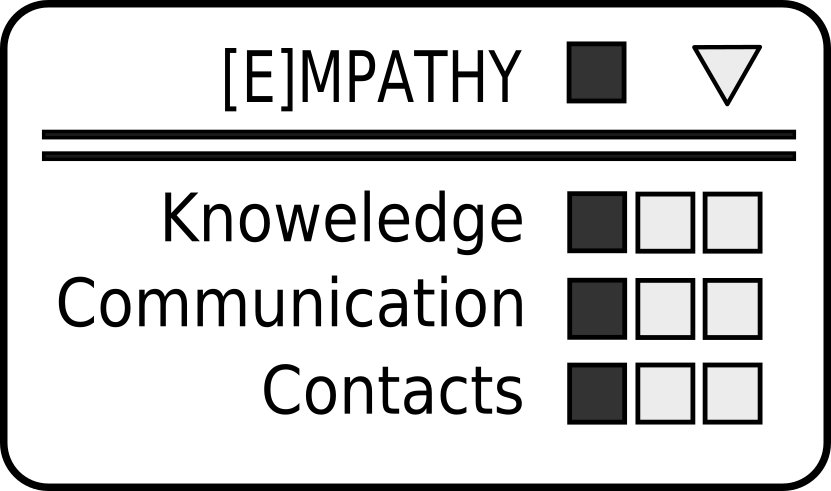
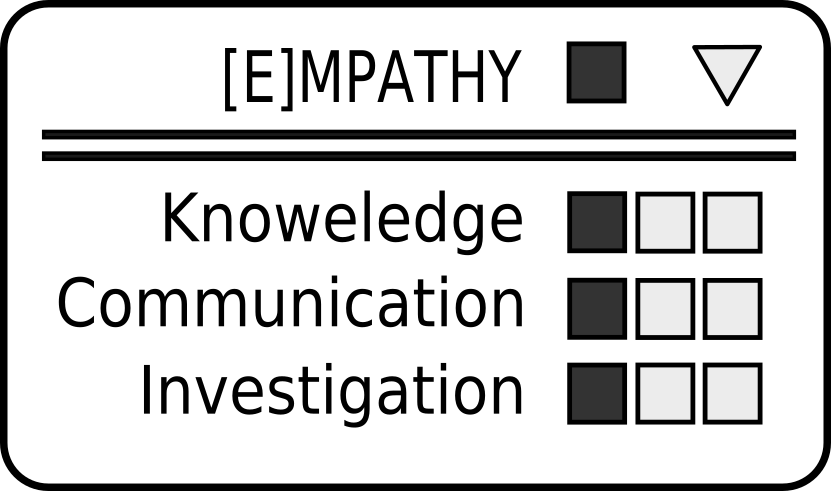
Remplaced contacts b investigation

Changed region(s): [[0.1504, 0.7332, 0.6318, 0.8859]]

diff --git a/content/roleplaying/rules.tex b/content/roleplaying/rules.tex
@@ -99,7 +99,7 @@ Bei einem vergleichenden Wurf kann das Ergebnis des ersten Wurfs durch einen Geg
     \end{tabular}\end{center}
 \end{ruleexample}
 
-\newsection{Der Charakter}
+\newsection{Der Charakter}\anchor{sec:character}
 
 Die F"ahigkeiten und Eigenschaften eines Charakters sind neben den menschlichen Grundf"ahigkeiten durch seinen Hintergrund und spezielle St"arken und Schw"achen bestimmt. 
 
@@ -151,7 +151,7 @@ Name, Geschlecht, Rasse, Alter k"onnen durch den Spieler frei gew"ahlt werden. D
 
 \newsubsection{Hintergrund}
 \begin{column}[l]{0.52}
-    Die im Kapitel "`Der Charakter"' eingef"uhren Hintergr"unde des Charakters werden im Feld \emph{BACK GROUND} notiert. Die Hintergr"unde beschreiben den individuellen Lebensweg eines Charakters. Hintergr"unde sind jeweils einem der \emph{Attribute} [B]ODY, [E]MPATHY und E[D]UCATION zugeordnet. Die zu einem Attribut zugeordneten speziellen St"arken die sog.~\emph{F"ahigkeiten} beziehen sich immer auf entsprechende Hintergr"unde.
+    Die im \cref{sec:character} eingef"uhren Hintergr"unde des Charakters werden im Feld \emph{BACK GROUND} notiert. Die Hintergr"unde beschreiben den individuellen Lebensweg eines Charakters. Hintergr"unde sind jeweils einem der \emph{Attribute} [B]ODY, [E]MPATHY und E[D]UCATION zugeordnet. Die zu einem Attribut zugeordneten speziellen St"arken die sog.~\emph{F"ahigkeiten} beziehen sich immer auf entsprechende Hintergr"unde.
 \end{column}
 \begin{column}[r]{0.48}
     \centering
@@ -186,7 +186,7 @@ Die F"ahigkeiten eines Charakters beziehen sich immer auf einen entsprechenden H
             immer bestens informiert.
         \item[\emph{Communication}] beschreibt die Kommunikationsf"ahigkeit des Charakters, d.h.~wie gut er mit anderen Personen umgehen 
             kann.
-        \item[\emph{Contacts}] bestimmt wie gut ein Charakter vernetzt ist.
+        \item[\emph{Investigation}] bestimmt wie gut ein Charakter investigative Untersuchungen und Nachforschungen aller Art betreibt.
     \end{description}
 \end{column}
 \begin{column}[r]{0.45}
@@ -200,7 +200,7 @@ Die F"ahigkeiten eines Charakters beziehen sich immer auf einen entsprechenden H
     \begin{description}
         \item[\emph{Technics}] beschreibt das Wissen und Verst"andnis f"ur technische Systeme.
         \item[\emph{Medicine}] beinhaltet die F"ahigkeit als Mediziener oder Sanit"ater zu fungieren.
-        \item[\emph{Contacts}] umfasst alle nicht technischen Wissenschaftgebiete.
+        \item[\emph{Research}] umfasst Forschung auf dem Charakter vertrauten Wissensgebieten.
     \end{description}
 \end{column}
 \begin{column}[r]{0.45}
@@ -354,7 +354,7 @@ Schwerere Waffen:
         durch ma\3iven Stahl hindurch bennen kann. Nach abschie\3en von Plasmapartikeln ben"otigt die Waffe in etwa eine Minute um wieder einsatzbereit zu sein. Eine Plasmaschleuder hat je nach Abstand einen Trefferwinkel von 1.5 bis zu 2 Metern.
 \end{description}
 
-\newsection{Cyberkampf}
+\newsection{Cyberkampf}\anchor{sec:cyberkampf}
 Cyberkampf ist Kampf im ComNetz. In das ComNetz kann sich ein Charakter mittels eines station"aren Terminals, einem Comnputer oder seinem ComLink einloggen. Weitaus effektiver ist jedoch das vollsensorische Eintauchen mittels Kontrollmodul. Der Charakter taucht dann mit all seinen Sinnen in die virtuelle Realit"at des Datennetztes. Mittels Gedankenkontrolle lassen sich dann Befehle absetzen. Informationen k"onnen durch alle Sinnesorgane aufgenommen. F"ur diese Art des Einstiegs ins Netz ist eine breitbandige Verbindung notwendig. 
 
 F"ur die Informationsbeschaffung oder "uberwachung im Netz k"onnen Agentensysteme mit Auftr"agen losgeschickt werden. 

diff --git a/content/roleplaying/world.tex b/content/roleplaying/world.tex
@@ -76,7 +76,7 @@ Im folgenden ein Auszug von im 23.~Jahrhundert gebr"auchlichen Waffen.
 \item [Vibrokling] Eine durch hochfrequente Vibration extrem scharfe Klinge.
 \item [Bolzenpistole] Ein Bolzenpistole ist eine semi automatische elektrisch getriebene Faustfeuerwaffe. Ein Bolzenpistole arbeitet "ublicherweise auf  
       dem Prinzip einer Railgun. Eine Railgun beschleunigt Hochgeschwindigkeitsprojektile entlang von zwei unter Strom gesetzten Stangen.
-\item [Multigun] Eine Multigun in den meisten F"allen eine sehr gro\3e Faustfeuerwaffe ist eine Railgun die es erlaubt zwischen     
+\item [Multigun] Eine Multigun in den meisten F"allen eine gro\3e Bolzenpistole, die es erlaubt zwischen     
       penetrierenden Projektilen und Schockmunition umzuschalten.
 \item [Railgun Gewehr] Ein Railgun Gewehr oder kurz eine Railgun ist eine vollautomatische langl"aufige Version einer nach 
       dem Railgun Prinzip funktionierenden Faustfeuerwaffe. Railguns werden auch auf Schiffen als Verteidigung gegen anfliegende Geschosse genutzt.         

diff --git a/content/roleplaying/background.tex b/content/roleplaying/background.tex
@@ -1,7 +1,7 @@
 %% Copyright 2019 Bernd Haberstumpf
 %% License: CC BY-NC
 % !TeX spellcheck = de_DE
-\newsection{Institutionen}
+\newsection{Institutionen}\anchor{sec:institutions}
 
 \begin{description}
 \item [Cynarian Corporation] Die Cynarian Corporation ist der zweitgr"o\3te Konzern im Sonnensystem mit Hauptsitz auf
@@ -19,7 +19,7 @@
       Shigano Kombinat strebt eine Mitgliedschaft an. Das Protektorat ist kein Mitglied.
 \end{description}
 
-\newsection{Das jovianische System}
+\newsection{Das jovianische System}\anchor{sec:jovianischessystem}
 
 Als jovianisches System bezeichnet man den Jupiter und seine Trabanten. Das jovianische System beherbergt "uber 70  Himmelsk"orper. Im folgenden die wichtigsten f"ur den Plot.
 
